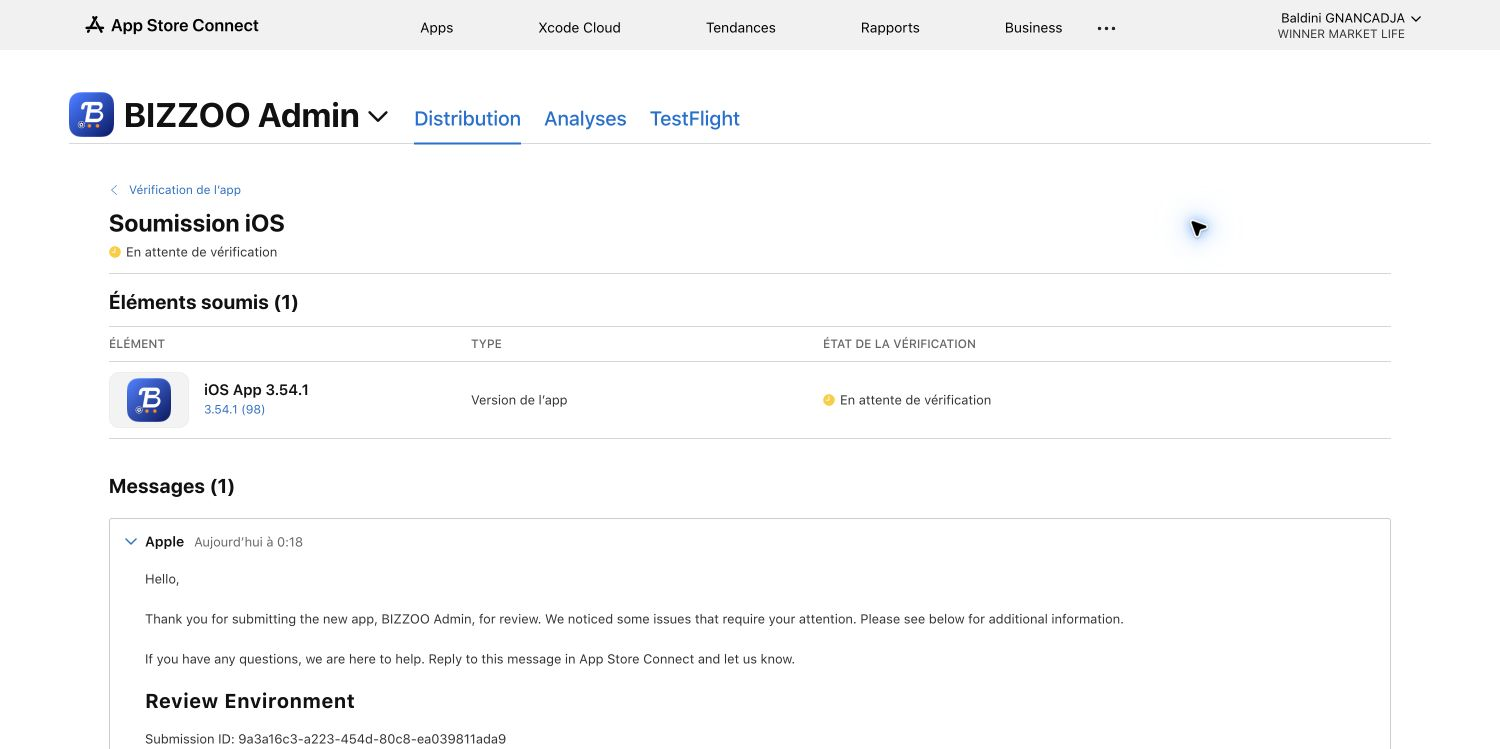
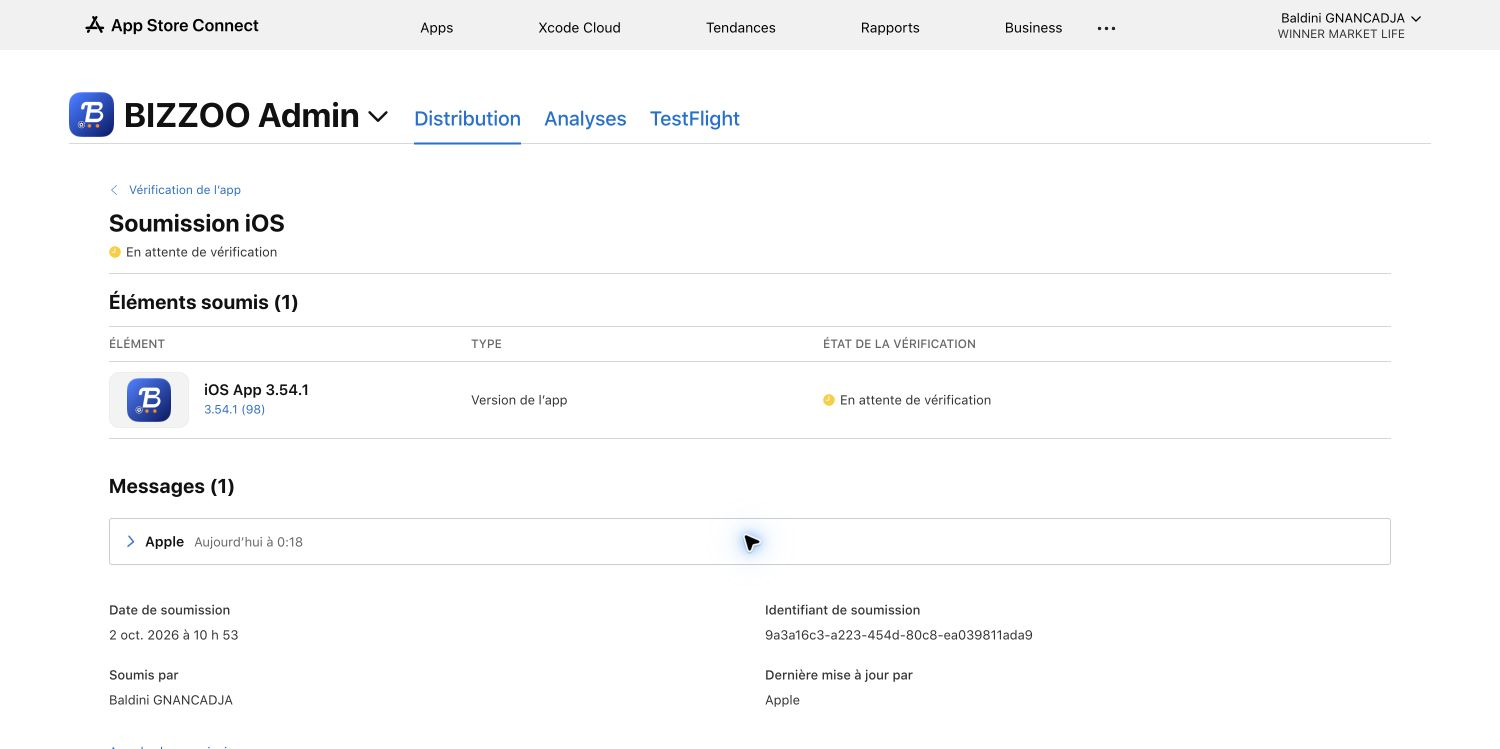
Finaliser les quatre soumissions BIZZOO aux stores

diff --git a/docs/google-play.md b/docs/google-play.md
@@ -164,10 +164,11 @@ Description complète :
   en transit oui, catégories de données métier et de localisation renseignées.
   La transmission à Supabase et aux prestataires de paiement comme sous-traitants
   n'est pas comptée comme partage ; les réponses doivent rester cohérentes
-  avec les usages effectifs avant l'envoi final. Le formulaire Admin indique
-  une création de compte professionnel hors de l'application. Son option
-  facultative de suppression de données *sans fermeture du compte* est « non » ;
-  la suppression intégrale reste décrite dans la politique publique.
+  avec les usages effectifs avant l'envoi final. Le formulaire Admin final
+  déclare la création de comptes professionnels par email et mot de passe
+  dans l'application, conformément à `Store.creerCompte`. Le lien public de
+  suppression de compte est renseigné. L'option facultative de suppression
+  de données *sans fermeture du compte* reste « non ».
 - Les questionnaires IARC ont été envoyés et affichent l'état « Terminée » :
   BIZZOO est classée 12 ans et plus pour le reste du monde (avis, catalogue
   marchand et achats d'articles numériques externes à l'application) ;
@@ -185,8 +186,9 @@ Play Console, avec des instructions en anglais, sans publier le mot de passe
 dans le dépôt. La valeur masquée du formulaire Apple a été remplacée dans
 Google par l'identifiant original du dossier privé. La revue a ensuite été
 relancée avec cette correction ; aucune modification ne reste à envoyer pour
-BIZZOO. Les deux comptes de revue se connectent sur les applications web
-GitHub Pages ; Admin reste limité à la boutique de démonstration fermée.
+BIZZOO. Le compte client de revue se connecte sur l'application web
+GitHub Pages. L'accès de revue Admin a ensuite été élargi avec l'accord
+spécifique du propriétaire, comme décrit ci-dessous.
 La cible est 18 ans et plus. Le questionnaire Sécurité des
 données importé a été parcouru, vérifié, puis enregistré définitivement.
 
@@ -196,34 +198,42 @@ sur cet écran. Les dix modifications ont été envoyées depuis la vue d'ensemb
 de la publication. Preuve locale :
 `docs/publication-evidence/2026-10-02/google-client-review.jpg`.
 
-## Conditions encore nécessaires pour BIZZOO Admin
+## Envoi BIZZOO Admin du 2 octobre 2026
 
-- Renseigner les **informations de connexion** pour les fonctions protégées
-  d'Admin. Les comptes de revue existent et le compte Admin isolé est
-  authentifié en production avec des droits limités à une boutique de démo.
-  Le propriétaire a autorisé leur transmission à Google Play. L'automatisation
-  du navigateur avait refusé les URL `file://` : les identifiants doivent être
-  saisis directement dans les formulaires Play, sans être copiés dans ce dépôt.
-  Google impose une case affirmant l'accès complet à toutes les fonctions,
-  y compris payantes. Cette attestation ne correspond pas au compte Admin
-  actuel : boutique de démo seulement et écritures Storage interdites. Le
-  code réserve aussi des fonctions au superadministrateur et au livreur.
-  L'accord spécifique pour élargir l'accès de revue aux données réelles a
-  été demandé au propriétaire ; aucun droit n'a été élargi.
-- Achever **Cible et contenu**, actuellement conditionné par les informations
-  de connexion, puis valider définitivement le brouillon **Sécurité des
-  données** d'Admin. Celui-ci a été parcouru jusqu'à l'aperçu ; l'enregistrement
-  final reste verrouillé tant que Cible et contenu n'est pas renseigné. La
-  classification IARC est terminée pour les deux apps.
-- Améliorer les captures avec des vues métier Admin authentifiées lorsque
-  le contrôle graphique de l'émulateur est disponible. Vérifier sur Android les parcours
-  authentifiés de signalement, masquage et modération UGC sans paiement réel.
-- La version de production Admin a été prévisualisée. La fiche Play, auparavant
-  incomplète faute de captures, est maintenant enregistrée ; il reste à terminer
-  les trois déclarations dépendantes de l'accès de revue avant de confirmer la
-  release et de l'envoyer depuis la vue d'ensemble de la publication. Vérifier dans la console
-  l'état réel « En cours d'examen » ou le blocage exact. La disponibilité
-  publique dépendra ensuite de la revue Google.
+Le propriétaire a confirmé l'élargissement de l'accès de revue. Le compte
+Admin est désormais **superadministrateur**, actif et sans rattachement à une
+boutique. Les trois restrictions Storage propres à ce compte ont été retirées,
+sans modifier les autres politiques. Il accède donc aux données réelles de
+l'enseigne. Les instructions de revue demandent de commencer les essais
+d'édition dans la boutique de démonstration fermée et d'éviter les commandes
+réelles. Un retour aux droits précédents est préparé dans le dossier privé.
+
+Un compte de revue **livreur**, actif et rattaché à la boutique de démonstration,
+permet d'ouvrir l'écran réservé aux livreurs. Sa liste de courses est vide.
+Les deux identités sont authentifiées avec leurs identifiants originaux. Les
+écrans web « Mon compte » confirment leurs rôles ; « Mes courses » s'ouvre pour
+le livreur. Les identifiants des deux rôles sont enregistrés dans les
+informations de connexion Play, en anglais et hors dépôt. La cible est 18 ans
+et plus, et la déclaration Sécurité des données est enregistrée définitivement.
+
+La release de production **96 (3.54.1)** est confirmée, avec le Bénin comme
+seul territoire. L'unique avertissement technique concerne l'absence de fichier
+de désobscurcissement. Google a aussi signalé automatiquement les captures
+comme illustrations promotionnelles. Les fichiers ont été vérifiés : ils
+montrent les écrans réels de connexion et de conditions d'utilisation.
+L'option proposée par la console pour poursuivre vers la revue humaine a été
+confirmée ; ce signalement peut encore conduire à un refus lors de la revue.
+Les captures métier Android authentifiées restent à améliorer.
+
+Les **dix modifications** ont été envoyées le 2 octobre 2026. La console
+confirme **Modifications en cours d'examen**, sans modification restante à
+envoyer ni contrôle rapide encore en cours. La publication gérée est
+désactivée : la publication suivra l'approbation Google. Ce statut confirme
+la soumission, pas encore l'approbation ni la disponibilité publique.
+Preuve locale : `docs/publication-evidence/2026-10-02/google-admin-review.jpg`.
+
+BIZZOO client affiche également **Modifications en cours d'examen**, sans
+modification restante à envoyer. Les deux apps Android sont donc soumises.
 
 ## Sources officielles vérifiées
 

diff --git a/ios/AppStoreRelease.md b/ios/AppStoreRelease.md
@@ -92,8 +92,9 @@ les identifiants de démonstration pour les fonctions protégées. Ceux du compt
 client ont été saisis depuis un fichier local protégé, hors dépôt ; le compte
 Admin a été activé dans un profil isolé rattaché à une boutique de démonstration
 fermée. QA a validé l'authentification et les restrictions RLS, puis ses
-identifiants ont été transmis à Apple depuis un fichier local protégé. Le
-parcours graphique connecté dans l'app reste à vérifier ; les captures Admin
+identifiants ont été transmis à Apple depuis un fichier local protégé. Cet
+accès initial a été remplacé le 2 octobre par les droits décrits ci-dessous. Le
+parcours graphique métier connecté dans l'app native reste à vérifier ; les captures Admin
 actuelles montrent l'écran de connexion.
 Les 24 réponses de classification par âge sont enregistrées pour chaque app ;
 Apple retourne `FOUR_PLUS` pour les deux. Les contrats gratuits et payants du
@@ -186,6 +187,17 @@ publique. Aucun message distinct n'a été envoyé à l'équipe Apple.
 L'API App Store Connect confirme `WAITING_FOR_REVIEW` pour les deux versions
 et la correspondance exacte des identifiants de revue avec le dossier privé.
 Les mots de passe ne sont pas copiés dans ce document ni dans les preuves.
+
+Le 2 octobre, avec l'accord spécifique du propriétaire, le compte de revue
+Admin a été promu superadministrateur avec accès à toute l'enseigne. Les
+restrictions de médias propres à ce compte ont été retirées. Un compte livreur
+rattaché à la boutique de démonstration permet aussi d'ouvrir l'écran des
+courses, réservé à ce rôle. Les authentifications et les rôles sont vérifiés
+sur le backend et dans les écrans web. Les remarques App Review ont été mises
+à jour via l'API pour expliquer ces accès, fournir l'identité livreur et
+préciser que les données réelles sont accessibles. Les identifiants restent
+hors dépôt. La modification des remarques est confirmée, et la soumission
+Admin reste `WAITING_FOR_REVIEW`.
 
 Preuves locales : `docs/publication-evidence/2026-10-02/apple-client-b98.jpg`
 et `apple-admin-b98.jpg`.
